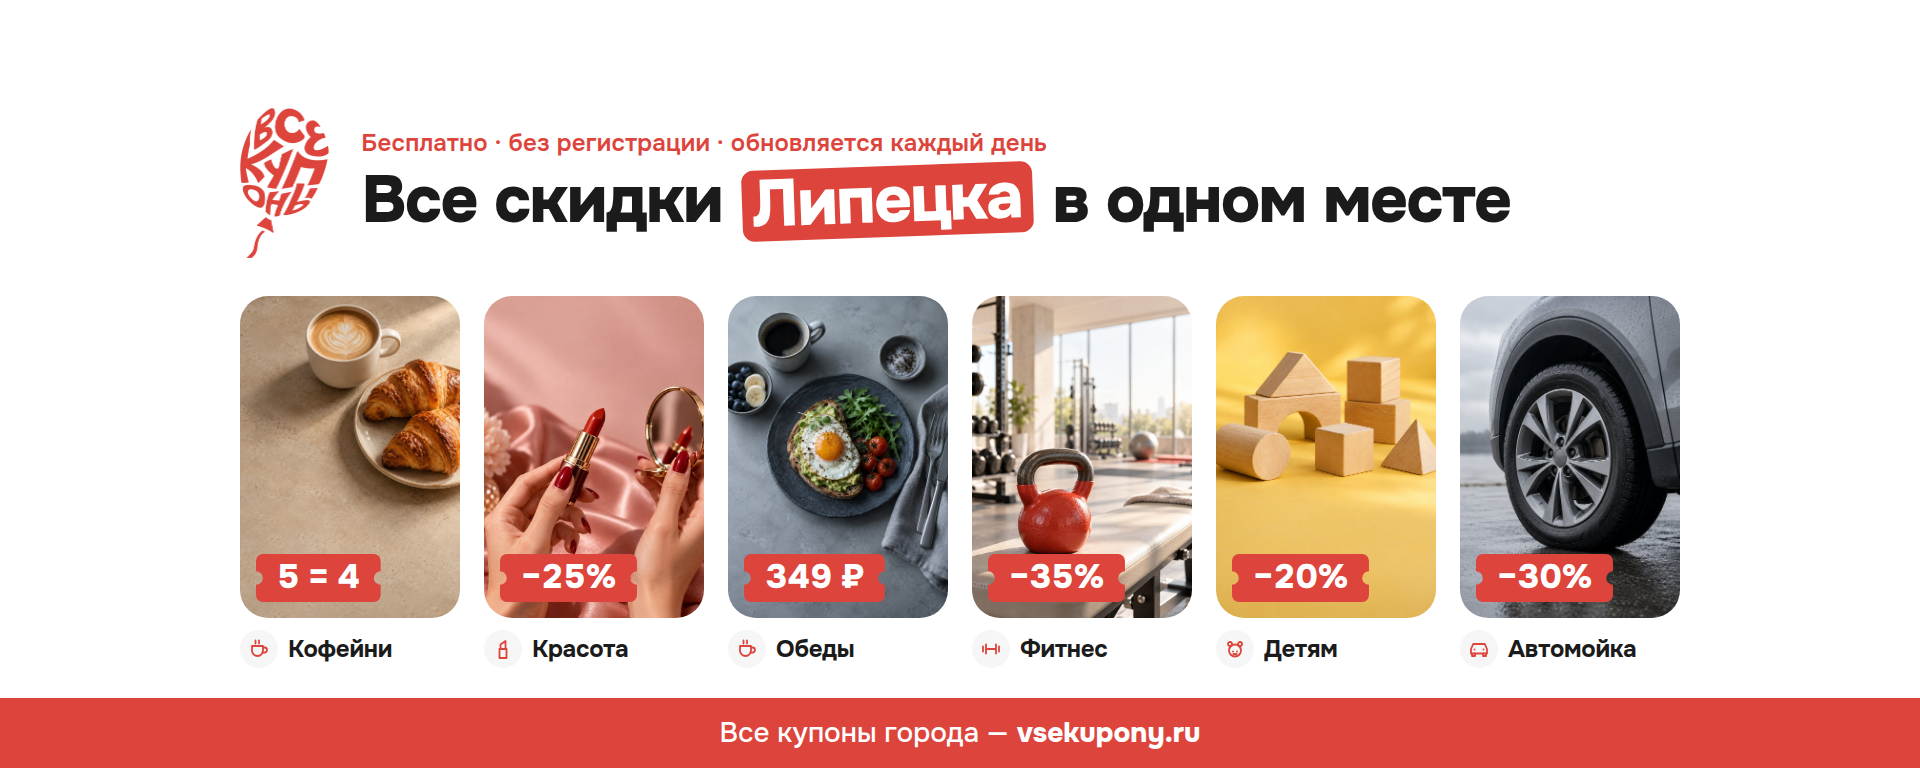
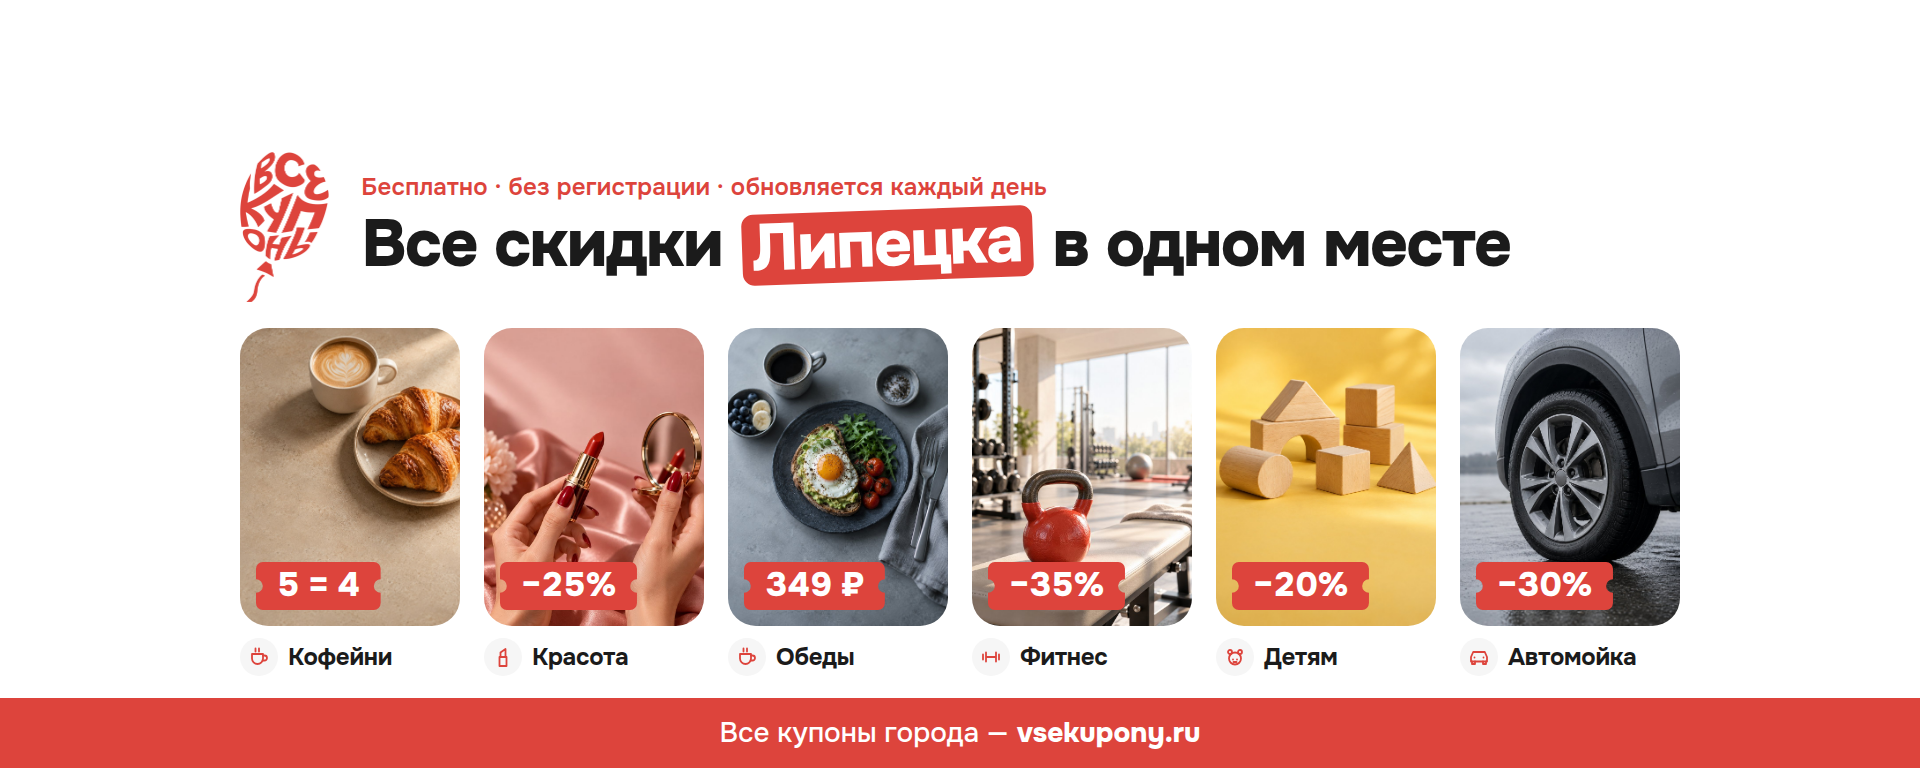
Соцсети: макет шапки группы ВК — обложка вместе с аватаром
Обложка в масштабе ВК со срезом ~117 px сверху, аватар у левого нижнего
угла, название сообщества и кнопки. Переключатель аватара и режим
«без шара на обложке». Содержимое обложек B и C опущено ниже среза.

Claude-Session: https://claude.ai/code/session_01VVvPvHVUv25TaftPDqbPP7

Changed region(s): [[0.125, 0.125, 0.875, 0.875]]

diff --git a/social-kit/kit.css b/social-kit/kit.css
@@ -371,7 +371,7 @@ body{
    кадре конечный продукт — люди с покупками (A), ниши с выгодой (B),
    товары и услуги на одном столе (C). Палитра та же, без градиентов:
    снимок отделяется от белого поля ровной границей, а не растушёвкой.
-   Селекторы через #covers2 — чтобы не спорить с правилами старых обложек
+   Селекторы через :is(#covers2,#vkprev) — чтобы не спорить с правилами старых обложек
    (.vk-cover .logo и т. п.). */
 .var-h{margin:40px 0 14px;font-size:20px;font-weight:700;color:var(--ink-2)}
 .var-h b{display:inline-grid;place-items:center;width:30px;height:30px;margin-right:8px;border-radius:50%;background:var(--brand);color:#fff;font-size:16px}
@@ -408,31 +408,31 @@ body{
 .offer .tk{font-size:1.04em;margin-left:.2em}
 
 /* ---------------- A. Люди ---------------- */
-#covers2 .vk-cover.cv-people .logo{left:200px;top:391px;height:300px}
-#covers2 .vk-cover.cv-people .txt{left:460px;top:391px;width:auto}
-#covers2 .vk-cover.cv-people .h1{font-size:78px}
-#covers2 .vk-cover.cv-people .eyebrow{font-size:26px}
-#covers2 .vk-cover.cv-people .steps{margin-top:30px;font-size:22px}
-#covers2 .vk-cover.cv-people .shot{left:1160px;top:0;right:0;bottom:70px;--pos:70% 30%}
-#covers2 .vk-cover.cv-people .offers{font-size:26px}
-#covers2 .vk-cover.cv-people .offer:nth-child(1){left:1150px;top:170px;--r:-3deg}
-#covers2 .vk-cover.cv-people .offer:nth-child(2){left:1240px;top:320px;--r:2deg}
-#covers2 .vk-cover.cv-people .offer:nth-child(3){left:1170px;top:470px;--r:-2deg}
+:is(#covers2,#vkprev) .vk-cover.cv-people .logo{left:200px;top:391px;height:300px}
+:is(#covers2,#vkprev) .vk-cover.cv-people .txt{left:460px;top:391px;width:auto}
+:is(#covers2,#vkprev) .vk-cover.cv-people .h1{font-size:78px}
+:is(#covers2,#vkprev) .vk-cover.cv-people .eyebrow{font-size:26px}
+:is(#covers2,#vkprev) .vk-cover.cv-people .steps{margin-top:30px;font-size:22px}
+:is(#covers2,#vkprev) .vk-cover.cv-people .shot{left:1160px;top:0;right:0;bottom:70px;--pos:70% 30%}
+:is(#covers2,#vkprev) .vk-cover.cv-people .offers{font-size:26px}
+:is(#covers2,#vkprev) .vk-cover.cv-people .offer:nth-child(1){left:1150px;top:170px;--r:-3deg}
+:is(#covers2,#vkprev) .vk-cover.cv-people .offer:nth-child(2){left:1240px;top:320px;--r:2deg}
+:is(#covers2,#vkprev) .vk-cover.cv-people .offer:nth-child(3){left:1170px;top:470px;--r:-2deg}
 
-#covers2 .ok-cover.cv-people .logo{left:172px;top:269px;height:340px}
-#covers2 .ok-cover.cv-people .txt{left:590px;top:269px}
-#covers2 .ok-cover.cv-people .h1{font-size:64px}
-#covers2 .ok-cover.cv-people .eyebrow{font-size:26px}
-#covers2 .ok-cover.cv-people .steps{margin-top:28px;font-size:23px}
-#covers2 .ok-cover.cv-people .shot{left:1440px;top:0;right:0;bottom:62px;--pos:70% 30%}
-#covers2 .ok-cover.cv-people .offers{font-size:24px}
-#covers2 .ok-cover.cv-people .offer:nth-child(1){left:1390px;top:120px;--r:-3deg}
-#covers2 .ok-cover.cv-people .offer:nth-child(2){left:1450px;top:290px;--r:2deg}
+:is(#covers2,#vkprev) .ok-cover.cv-people .logo{left:172px;top:269px;height:340px}
+:is(#covers2,#vkprev) .ok-cover.cv-people .txt{left:590px;top:269px}
+:is(#covers2,#vkprev) .ok-cover.cv-people .h1{font-size:64px}
+:is(#covers2,#vkprev) .ok-cover.cv-people .eyebrow{font-size:26px}
+:is(#covers2,#vkprev) .ok-cover.cv-people .steps{margin-top:28px;font-size:23px}
+:is(#covers2,#vkprev) .ok-cover.cv-people .shot{left:1440px;top:0;right:0;bottom:62px;--pos:70% 30%}
+:is(#covers2,#vkprev) .ok-cover.cv-people .offers{font-size:24px}
+:is(#covers2,#vkprev) .ok-cover.cv-people .offer:nth-child(1){left:1390px;top:120px;--r:-3deg}
+:is(#covers2,#vkprev) .ok-cover.cv-people .offer:nth-child(2){left:1450px;top:290px;--r:2deg}
 
 /* ---------------- B. Витрина ---------------- */
-#covers2 .cv-shelf .head{position:absolute;display:flex;align-items:center}
-#covers2 .cv-shelf .head .logo{position:static;transform:none;flex:none}
-#covers2 .cv-shelf .tiles{position:absolute;display:grid;grid-template-columns:repeat(6, minmax(0, 1fr))}
+:is(#covers2,#vkprev) .cv-shelf .head{position:absolute;display:flex;align-items:center}
+:is(#covers2,#vkprev) .cv-shelf .head .logo{position:static;transform:none;flex:none}
+:is(#covers2,#vkprev) .cv-shelf .tiles{position:absolute;display:grid;grid-template-columns:repeat(6, minmax(0, 1fr))}
 .tile{display:flex;flex-direction:column;min-height:0}
 .tile__ph{position:relative;flex:1;min-height:0;border-radius:var(--rad);background:var(--surface) center / cover no-repeat}
 .tile__ph .tk{position:absolute;left:var(--in);bottom:var(--in)}
@@ -440,49 +440,49 @@ body{
 .tile__t span{width:1.6em;height:1.6em;border-radius:50%;flex:none;display:grid;place-items:center;background:var(--surface);color:var(--brand)}
 .tile__t svg{width:1em;height:1em}
 
-#covers2 .vk-cover.cv-shelf .head{left:240px;right:240px;top:108px;gap:32px}
-#covers2 .vk-cover.cv-shelf .head .logo{height:150px}
-#covers2 .vk-cover.cv-shelf .eyebrow{font-size:24px}
-#covers2 .vk-cover.cv-shelf .h1{margin-top:8px;font-size:66px}
-#covers2 .vk-cover.cv-shelf .tiles{left:240px;right:240px;top:296px;bottom:100px;gap:24px;--rad:28px;--in:16px}
-#covers2 .vk-cover.cv-shelf .tile__ph .tk{font-size:34px}
-#covers2 .vk-cover.cv-shelf .tile__t{font-size:24px}
+:is(#covers2,#vkprev) .vk-cover.cv-shelf .head{left:240px;right:240px;top:152px;gap:32px}
+:is(#covers2,#vkprev) .vk-cover.cv-shelf .head .logo{height:150px}
+:is(#covers2,#vkprev) .vk-cover.cv-shelf .eyebrow{font-size:24px}
+:is(#covers2,#vkprev) .vk-cover.cv-shelf .h1{margin-top:8px;font-size:66px}
+:is(#covers2,#vkprev) .vk-cover.cv-shelf .tiles{left:240px;right:240px;top:328px;bottom:92px;gap:24px;--rad:28px;--in:16px}
+:is(#covers2,#vkprev) .vk-cover.cv-shelf .tile__ph .tk{font-size:34px}
+:is(#covers2,#vkprev) .vk-cover.cv-shelf .tile__t{font-size:24px}
 
-#covers2 .ok-cover.cv-shelf .head{left:0;right:0;top:34px;justify-content:center;gap:26px}
-#covers2 .ok-cover.cv-shelf .head .logo{height:140px}
-#covers2 .ok-cover.cv-shelf .eyebrow{font-size:22px}
-#covers2 .ok-cover.cv-shelf .h1{margin-top:6px;font-size:50px}
-#covers2 .ok-cover.cv-shelf .tiles{left:120px;right:120px;top:206px;bottom:86px;gap:20px;--rad:24px;--in:14px}
-#covers2 .ok-cover.cv-shelf .tile__ph .tk{font-size:30px}
-#covers2 .ok-cover.cv-shelf .tile__t{font-size:21px}
+:is(#covers2,#vkprev) .ok-cover.cv-shelf .head{left:0;right:0;top:34px;justify-content:center;gap:26px}
+:is(#covers2,#vkprev) .ok-cover.cv-shelf .head .logo{height:140px}
+:is(#covers2,#vkprev) .ok-cover.cv-shelf .eyebrow{font-size:22px}
+:is(#covers2,#vkprev) .ok-cover.cv-shelf .h1{margin-top:6px;font-size:50px}
+:is(#covers2,#vkprev) .ok-cover.cv-shelf .tiles{left:120px;right:120px;top:206px;bottom:86px;gap:20px;--rad:24px;--in:14px}
+:is(#covers2,#vkprev) .ok-cover.cv-shelf .tile__ph .tk{font-size:30px}
+:is(#covers2,#vkprev) .ok-cover.cv-shelf .tile__t{font-size:21px}
 
 /* ---------------- C. Раскладка ---------------- */
-#covers2 .cv-flat .shot{left:0;top:0;right:0}
-#covers2 .cv-flat .panel{
+:is(#covers2,#vkprev) .cv-flat .shot{left:0;top:0;right:0}
+:is(#covers2,#vkprev) .cv-flat .panel{
   position:absolute;display:flex;align-items:center;background:#fff;
   box-shadow:0 30px 70px -30px rgba(40,10,8,.45);
 }
-#covers2 .cv-flat .panel .logo,#covers2 .cv-flat .panel .txt{position:static;transform:none;width:auto}
-#covers2 .cv-flat > .tk{position:absolute;transform:rotate(var(--r, 0deg));box-shadow:none;filter:drop-shadow(0 16px 22px rgba(40,10,8,.35))}
+:is(#covers2,#vkprev) .cv-flat .panel .logo,:is(#covers2,#vkprev) .cv-flat .panel .txt{position:static;transform:none;width:auto}
+:is(#covers2,#vkprev) .cv-flat > .tk{position:absolute;transform:rotate(var(--r, 0deg));box-shadow:none;filter:drop-shadow(0 16px 22px rgba(40,10,8,.35))}
 
-#covers2 .vk-cover.cv-flat .shot{bottom:70px;--pos:70% 50%}
-#covers2 .vk-cover.cv-flat .panel{left:210px;top:120px;width:1000px;height:520px;padding:0 56px;gap:44px;border-radius:40px}
-#covers2 .vk-cover.cv-flat .panel .logo{height:300px}
-#covers2 .vk-cover.cv-flat .eyebrow{font-size:24px}
-#covers2 .vk-cover.cv-flat .h1{margin-top:14px;font-size:74px}
-#covers2 .vk-cover.cv-flat .steps{margin-top:28px;font-size:22px}
-#covers2 .vk-cover.cv-flat .tk--1{left:1330px;top:180px;font-size:60px;--r:-4deg}
-#covers2 .vk-cover.cv-flat .tk--2{left:1530px;top:420px;font-size:46px;--r:3deg}
-#covers2 .vk-cover.cv-flat .tk--3{left:1300px;top:540px;font-size:50px;--r:-2deg}
+:is(#covers2,#vkprev) .vk-cover.cv-flat .shot{bottom:70px;--pos:70% 50%}
+:is(#covers2,#vkprev) .vk-cover.cv-flat .panel{left:210px;top:145px;width:1000px;height:500px;padding:0 56px;gap:44px;border-radius:40px}
+:is(#covers2,#vkprev) .vk-cover.cv-flat .panel .logo{height:300px}
+:is(#covers2,#vkprev) .vk-cover.cv-flat .eyebrow{font-size:24px}
+:is(#covers2,#vkprev) .vk-cover.cv-flat .h1{margin-top:14px;font-size:74px}
+:is(#covers2,#vkprev) .vk-cover.cv-flat .steps{margin-top:28px;font-size:22px}
+:is(#covers2,#vkprev) .vk-cover.cv-flat .tk--1{left:1330px;top:180px;font-size:60px;--r:-4deg}
+:is(#covers2,#vkprev) .vk-cover.cv-flat .tk--2{left:1530px;top:420px;font-size:46px;--r:3deg}
+:is(#covers2,#vkprev) .vk-cover.cv-flat .tk--3{left:1300px;top:540px;font-size:50px;--r:-2deg}
 
-#covers2 .ok-cover.cv-flat .shot{bottom:62px;--pos:70% 50%}
-#covers2 .ok-cover.cv-flat .panel{left:560px;top:48px;width:830px;height:442px;padding:0 48px;gap:40px;border-radius:36px}
-#covers2 .ok-cover.cv-flat .panel .logo{height:250px}
-#covers2 .ok-cover.cv-flat .eyebrow{font-size:22px}
-#covers2 .ok-cover.cv-flat .h1{margin-top:12px;font-size:58px}
-#covers2 .ok-cover.cv-flat .steps{margin-top:24px;font-size:21px}
-#covers2 .ok-cover.cv-flat .tk--1{left:1500px;top:110px;font-size:56px;--r:-4deg}
-#covers2 .ok-cover.cv-flat .tk--2{left:1580px;top:330px;font-size:44px;--r:3deg}
+:is(#covers2,#vkprev) .ok-cover.cv-flat .shot{bottom:62px;--pos:70% 50%}
+:is(#covers2,#vkprev) .ok-cover.cv-flat .panel{left:560px;top:48px;width:830px;height:442px;padding:0 48px;gap:40px;border-radius:36px}
+:is(#covers2,#vkprev) .ok-cover.cv-flat .panel .logo{height:250px}
+:is(#covers2,#vkprev) .ok-cover.cv-flat .eyebrow{font-size:22px}
+:is(#covers2,#vkprev) .ok-cover.cv-flat .h1{margin-top:12px;font-size:58px}
+:is(#covers2,#vkprev) .ok-cover.cv-flat .steps{margin-top:24px;font-size:21px}
+:is(#covers2,#vkprev) .ok-cover.cv-flat .tk--1{left:1500px;top:110px;font-size:56px;--r:-4deg}
+:is(#covers2,#vkprev) .ok-cover.cv-flat .tk--2{left:1580px;top:330px;font-size:44px;--r:3deg}
 
 /* ==========================================================================
    Аватар — варианты (05.10)
@@ -534,3 +534,39 @@ body{
 
 /* 6. Объёмный шар — сгенерированный снимок, photos/avatar-3d.jpg */
 .av-3d .shot{position:absolute;inset:0}
+
+/* ==========================================================================
+   Шапка группы ВК — как обложка выглядит вместе с аватаром (05.10)
+   ==========================================================================
+   Размеры сняты со скриншота ВК на компьютере: обложка ужата до ~0,466,
+   сверху срезано ~117 px, аватар ~200 px (в масштабе обложки) стоит у
+   левого нижнего угла и заходит на обложку на ~45 px. Справа от аватара —
+   название сообщества, в нём уже есть город. */
+.bare #vkprev{display:none}
+.vkp-ctl{display:flex;flex-wrap:wrap;align-items:center;gap:10px;margin:0 0 24px;font-size:15px;font-weight:600;color:var(--ink-2)}
+.vkp-ctl button{font:inherit;padding:8px 14px;border:0;border-radius:999px;background:#fff;color:var(--ink);cursor:pointer}
+.vkp-ctl button.is-on{background:var(--brand);color:#fff}
+.vkp-ctl label{display:flex;align-items:center;gap:8px;margin-left:16px;cursor:pointer}
+.vkp-list{display:flex;flex-wrap:wrap;gap:28px 32px}
+.vkp-list figure{margin:0}
+.vkp-list figcaption{margin:0 0 8px;font-size:14px;font-weight:700;color:var(--ink-2)}
+.vkp{position:relative;width:895px;height:440px;border-radius:12px;overflow:hidden;background:#EDEEF0;font-family:-apple-system,"Segoe UI",Roboto,Arial,sans-serif;zoom:1.1}
+.vkp__cover{position:absolute;left:0;top:0;width:895px;height:303px;overflow:hidden;background:#fff}
+.vkp__cover > div{position:absolute !important;left:0;top:-117px}
+.vkp__card{position:absolute;left:0;right:0;top:303px;height:125px;background:#fff;border-radius:0 0 12px 12px;box-shadow:0 1px 0 rgba(0,0,0,.06)}
+.vkp__ava{position:absolute;left:18px;top:283px;width:94px;height:94px;border-radius:50%;overflow:hidden;background:#fff;box-shadow:0 0 0 4px #fff;z-index:2}
+.vkp__ava > div{position:relative;overflow:hidden}
+.vkp__plus{position:absolute;left:88px;top:352px;width:22px;height:22px;border-radius:50%;background:#4B7DC4;box-shadow:0 0 0 3px #fff;z-index:3;color:#fff;font-size:18px;line-height:21px;text-align:center}
+.vkp__name{position:absolute;left:130px;top:24px;font-size:20px;font-weight:600;color:#000}
+.vkp__rate{position:absolute;left:130px;top:52px;font-size:14px;color:#818C99}
+.vkp__rate i{letter-spacing:2px;color:#C4C8CC;font-style:normal}
+.vkp__sub{position:absolute;left:130px;top:80px;font-size:13px;color:#818C99}
+.vkp__btn{position:absolute;top:20px;height:34px;padding:0 16px;border-radius:8px;font-size:14px;font-weight:600;line-height:34px}
+.vkp__btn--a{right:107px;background:#4B7DC4;color:#fff}
+.vkp__btn--b{right:16px;background:#EDF0F4;color:#2C5E9E}
+/* Без шара на обложке: знак остаётся на аватаре, текст сдвигается влево */
+.vkp.no-logo .vkp__cover .logo{display:none}
+.vkp.no-logo .vkp__cover .vk-cover:not(.cv) .txt{left:260px}
+.vkp.no-logo .vkp__cover .vk-cover:not(.cv) .h1{font-size:96px}
+.vkp.no-logo .vkp__cover .cv-people .txt{left:200px !important}
+.vkp.no-logo .vkp__cover .cv-people .h1{font-size:90px !important}

diff --git a/social-kit/kit.js b/social-kit/kit.js
@@ -322,4 +322,48 @@ if (siteV) {
 }
 
 /* Билетики строятся после шрифтов: от них зависит ширина плашки */
-document.fonts.ready.then(() => { shapeTickets(); fitAvatarTowns(); avatarSizes(); });
+/* Шапка группы ВК: копии обложек и выбранного аватара в масштабе ВК */
+const VKP_COVERS = [["vk-cover", "Сейчас"], ["vk-cover-people", "A. Люди"], ["vk-cover-shelf", "B. Витрина"], ["vk-cover-flat", "C. Раскладка"]];
+const plainCopy = (src, zoom) => {
+  const c = src.cloneNode(true);
+  c.removeAttribute("id"); c.removeAttribute("data-out"); c.classList.remove("art");
+  c.style.cssText = "position:relative;overflow:hidden;zoom:" + zoom;
+  c.querySelectorAll("[id]").forEach(n => { n.id += "-p"; });
+  c.querySelectorAll("textPath").forEach(n => n.setAttribute("href", n.getAttribute("href") + "-p"));
+  return c;
+};
+let vkpAva = "tilt";
+function vkPreview() {
+  const list = document.getElementById("vkp-list");
+  const noLogo = document.getElementById("vkp-nologo").checked;
+  list.innerHTML = "";
+  VKP_COVERS.forEach(([id, name]) => {
+    const f = document.createElement("figure");
+    f.innerHTML = `<figcaption>${name}</figcaption>
+      <div class="vkp${noLogo ? " no-logo" : ""}">
+        <div class="vkp__cover"></div>
+        <div class="vkp__card">
+          <div class="vkp__name">ВСЕКУПОНЫ | ${town || "Липецк"}</div>
+          <div class="vkp__rate"><i>★★★★★</i> · Нет отзывов</div>
+          <div class="vkp__sub">✓ Вы подписаны</div>
+          <div class="vkp__btn vkp__btn--a">Сообщение</div>
+          <div class="vkp__btn vkp__btn--b">Ещё ⌄</div>
+        </div>
+        <div class="vkp__ava"></div><div class="vkp__plus">+</div>
+      </div>`;
+    f.querySelector(".vkp__cover").appendChild(plainCopy(document.getElementById(id), .466));
+    f.querySelector(".vkp__ava").appendChild(plainCopy(document.getElementById("ava-" + vkpAva), 94 / 400));
+    list.appendChild(f);
+  });
+}
+document.getElementById("vkp-avas").innerHTML = AVAS.map(([id, , , name], i) =>
+  `<button data-a="${id}"${id === vkpAva ? ' class="is-on"' : ""}>${i + 1}. ${name}</button>`).join(" ");
+document.getElementById("vkp-avas").addEventListener("click", e => {
+  const b = e.target.closest("button"); if (!b) return;
+  vkpAva = b.dataset.a;
+  document.querySelectorAll("#vkp-avas button").forEach(x => x.classList.toggle("is-on", x === b));
+  vkPreview();
+});
+document.getElementById("vkp-nologo").addEventListener("change", vkPreview);
+
+document.fonts.ready.then(() => { shapeTickets(); fitAvatarTowns(); avatarSizes(); vkPreview(); });

diff --git a/social-kit/index.html b/social-kit/index.html
@@ -135,6 +135,18 @@
     </div>
   </section>
 
+  <!-- ================================================ Шапка группы ВК -->
+  <!-- Как обложка и аватар выглядят вместе на странице группы ВК
+       (размеры — со скриншота 05.10). Только для просмотра, в PNG не идёт. -->
+  <section class="net" id="vkprev">
+    <h2><i style="--c:#0077FF"></i>Шапка группы ВК — обложка вместе с аватаром</h2>
+    <div class="vkp-ctl">Аватар:
+      <span id="vkp-avas"></span>
+      <label><input type="checkbox" id="vkp-nologo"> без шара на обложке — знак только на аватаре</label>
+    </div>
+    <div class="vkp-list" id="vkp-list"></div>
+  </section>
+
   <!-- ==================================================== Аватары 2.0 -->
   <!-- Правка 05.10: аватар один на все четыре сети. Варианты собирает
        kit.js (блок «Аватары — варианты»); рядом с каждым — он же в

diff --git a/social-kit/README.md b/social-kit/README.md
@@ -33,7 +33,9 @@
 | | Пост с купоном | 1080×1350 | `out/max/max-post-1080x1350.png` |
 
 Безопасные зоны:
-- обложка ВК — сверху ~85 px под меню, на телефоне режется по ~200 px с боков;
+- обложка ВК — на компьютере сверху срезается ~117 px (видно 1920×650, замер
+  со скриншота 05.10), левый нижний угол (x 60–260, низ ~45 px) закрывает
+  аватар; на телефоне режется по ~200 px с боков;
 - живая обложка ВК — сверху ~190 px статус-бар, снизу ~420 px блок с названием;
 - обложка ОК — на телефоне остаётся центральная полоса ~800 px, заголовок в ней;
 - аватары — круглая обрезка, знак в центральных 70 %.
@@ -65,6 +67,13 @@
 Город читается только от ~160 px, в ленте и списках — никогда, поэтому
 город держит название сообщества. У 4 и 5 шрифт подгоняется под длину,
 примеры: Елец, Нижний Новгород, Санкт-Петербург. PNG — `out/ava/`.
+
+## Шапка группы ВК (05.10)
+
+Раздел «Шапка группы ВК» показывает обложку вместе с аватаром и названием
+так, как их видно на странице группы на компьютере. Аватар переключается
+кнопками; галочка «без шара на обложке» убирает знак с обложки — он уже
+есть на аватаре прямо под ней. Только для просмотра, в PNG не идёт.
 
 ## Новые обложки (05.10)
 
